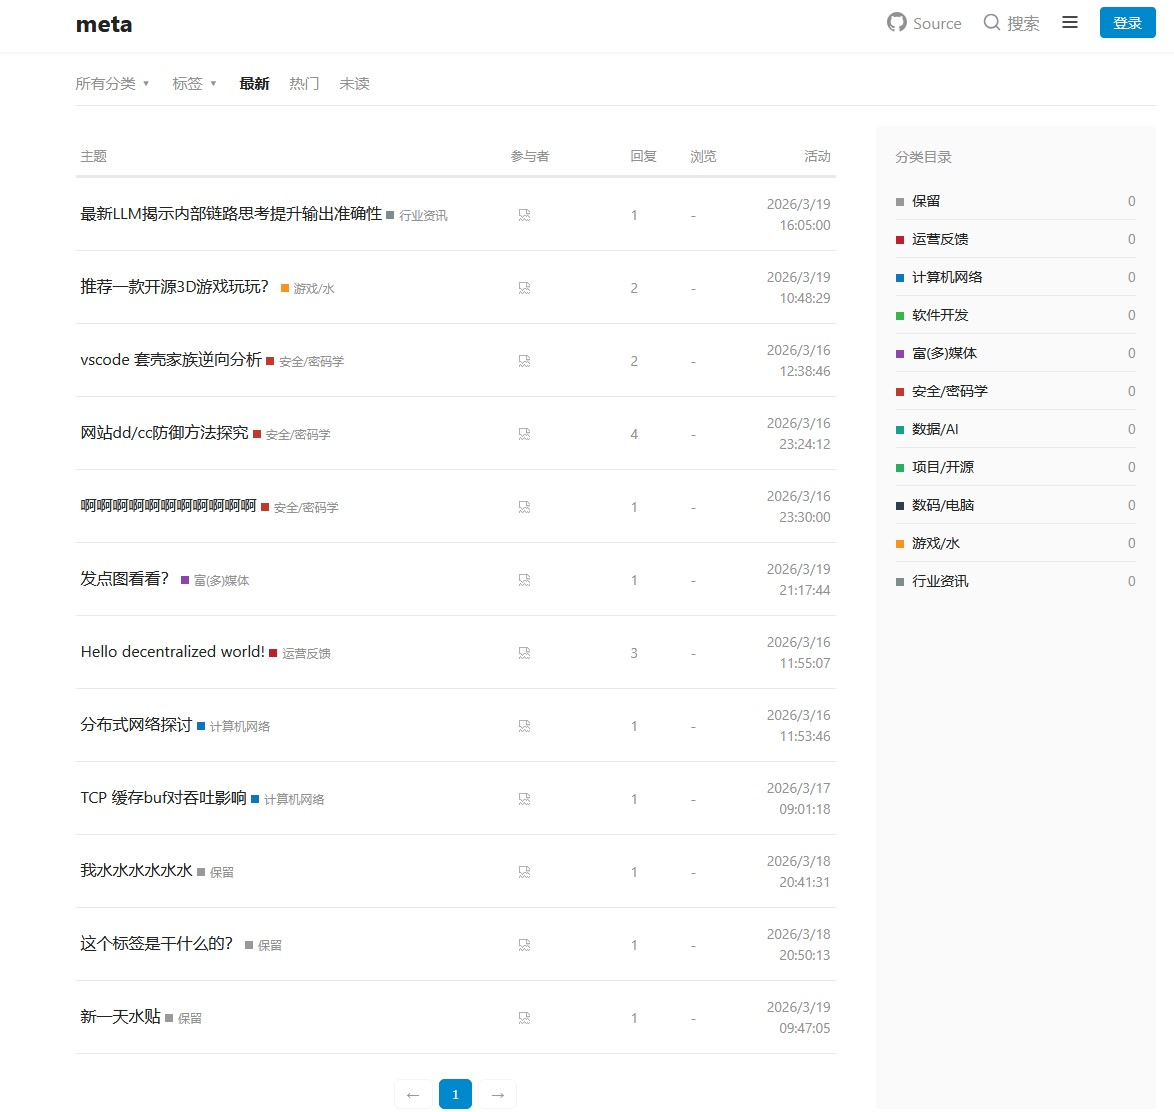
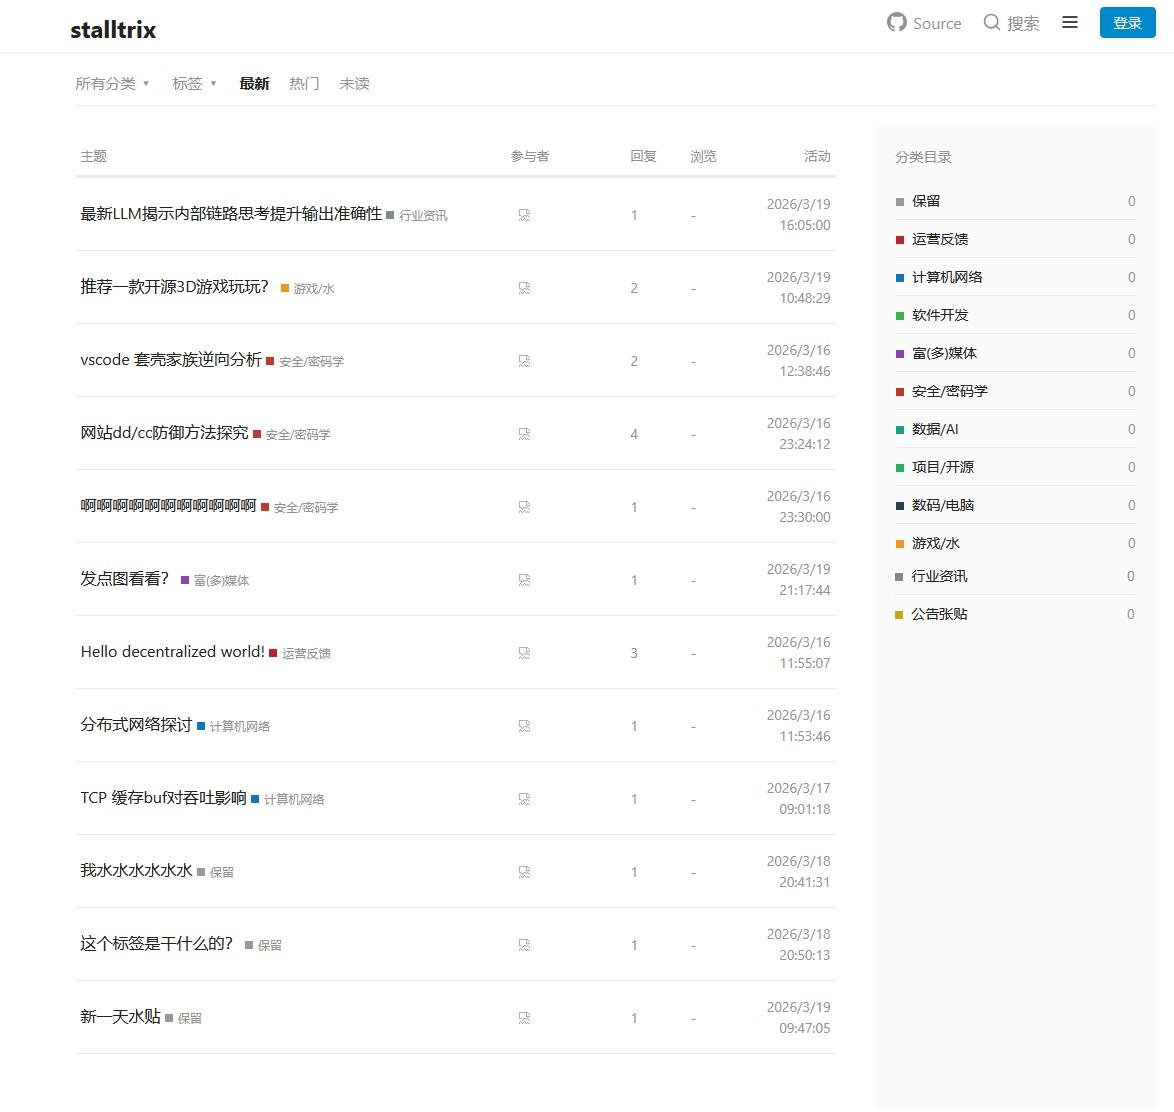
update readme

diff --git a/readme.md b/readme.md
@@ -1,5 +1,14 @@
 # kepweb-multi
 
+<div align="center">
+  <img src="img/favicon.jpg" width="120">
+</div>
+
+![Go Report Card](img/goreport.svg)
+[![Go Reference](https://pkg.go.dev/badge/github.com/stalltrix/kepweb-multi.svg)](https://pkg.go.dev/github.com/stalltrix/kepweb-multi)
+[![Releases](https://img.shields.io/github/v/release/stalltrix/kepweb-multi.svg?style=flat-square&include_prereleases)](https://github.com/stalltrix/kepweb-multi/releases)
+[![LICENSE](https://img.shields.io/github/license/stalltrix/kepweb-multi.svg?style=flat-square)](https://github.com/stalltrix/kepweb-multi/blob/master/LICENSE)
+
 kep webUI-multi程序，允许多用户共用一个节点。
 
 现实现为所有用户一个mainkey，以pkey区分用户，可能此实现不符合协议初衷
